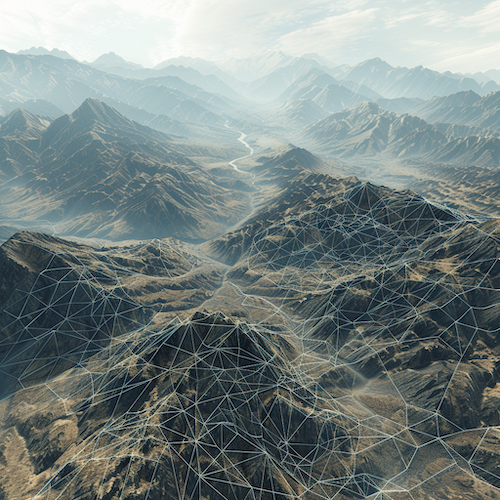
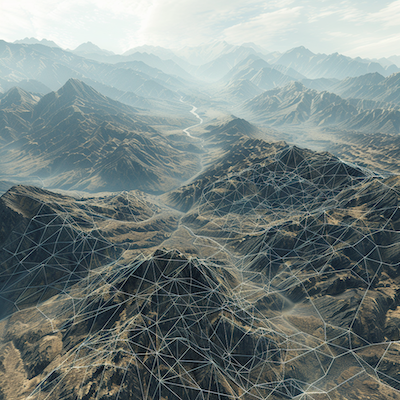
add new blog + resize images

diff --git a/posts/2024-09-16-what-is-the-rust-prelude?.md b/posts/2024-09-16-what-is-the-rust-prelude?.md
@@ -1,0 +1,36 @@
+---
+author: Alex Strick van Linschoten
+categories:
+  - rust
+  - learning
+date: "2024-09-16"
+description: "A quick post on what the 'prelude' is and why it exists."
+layout: post
+title: "What is the Rust prelude?"
+toc: false
+image: 
+include-before-body: '<script defer data-domain="mlops.systems" src="https://plausible.io/js/script.js"></script>'
+comments:
+  utterances:
+    repo: strickvl/mlops-dot-systems
+---
+
+I'm studying Rust these days on the side and one thing that I keep hearing and seeing is the idea of the 'prelude'. I thought I'd write a quick blog to cement exactly what's going on here.
+
+At a very high level, the prelude is a bunch of functions, methods and other things that are automatically available to you when you start working on your project without you having to manually or explicitly import them. As [the Rust docs](https://doc.rust-lang.org/std/prelude/) state:
+
+> "The prelude is the list of things that Rust automatically imports into every Rust program. It’s kept as small as possible, and is focused on things, particularly traits, which are used in almost every single Rust program."
+
+I thought maybe a good example of this is the classic 'Hello, World!' starter when you create a new project using `cargo new ...`:
+
+```rust
+fn main() {
+    println!("Hello, World!")
+}
+```
+
+So here we have `println!` which is actually a macro, and from what I read this is *not* part of the prelude, though it is available to us by default.
+
+A better / actual list of some things that are made available would include some types like `Option`, `Result`, `String` and `Vec`, as well as some traits like `Copy`, `Clone`, `Eq` and so on. For a full list, refer to [the official prelude contents](https://doc.rust-lang.org/std/prelude/#prelude-contents) as listed in the docs. Note that there are several versions (2015, 2018, 2021 etc) of the prelude. My understanding is that each successive version only adds new things that are exported by default. If that wasn't the case, then I'm guessing it would be hard to provide those solid backwards-compatibility guarantees.
+
+So basically, there are some symbols or imports that were deemed to be used so often that they decided not to force you to have to import them explicitly every time you want to get started writing code.
